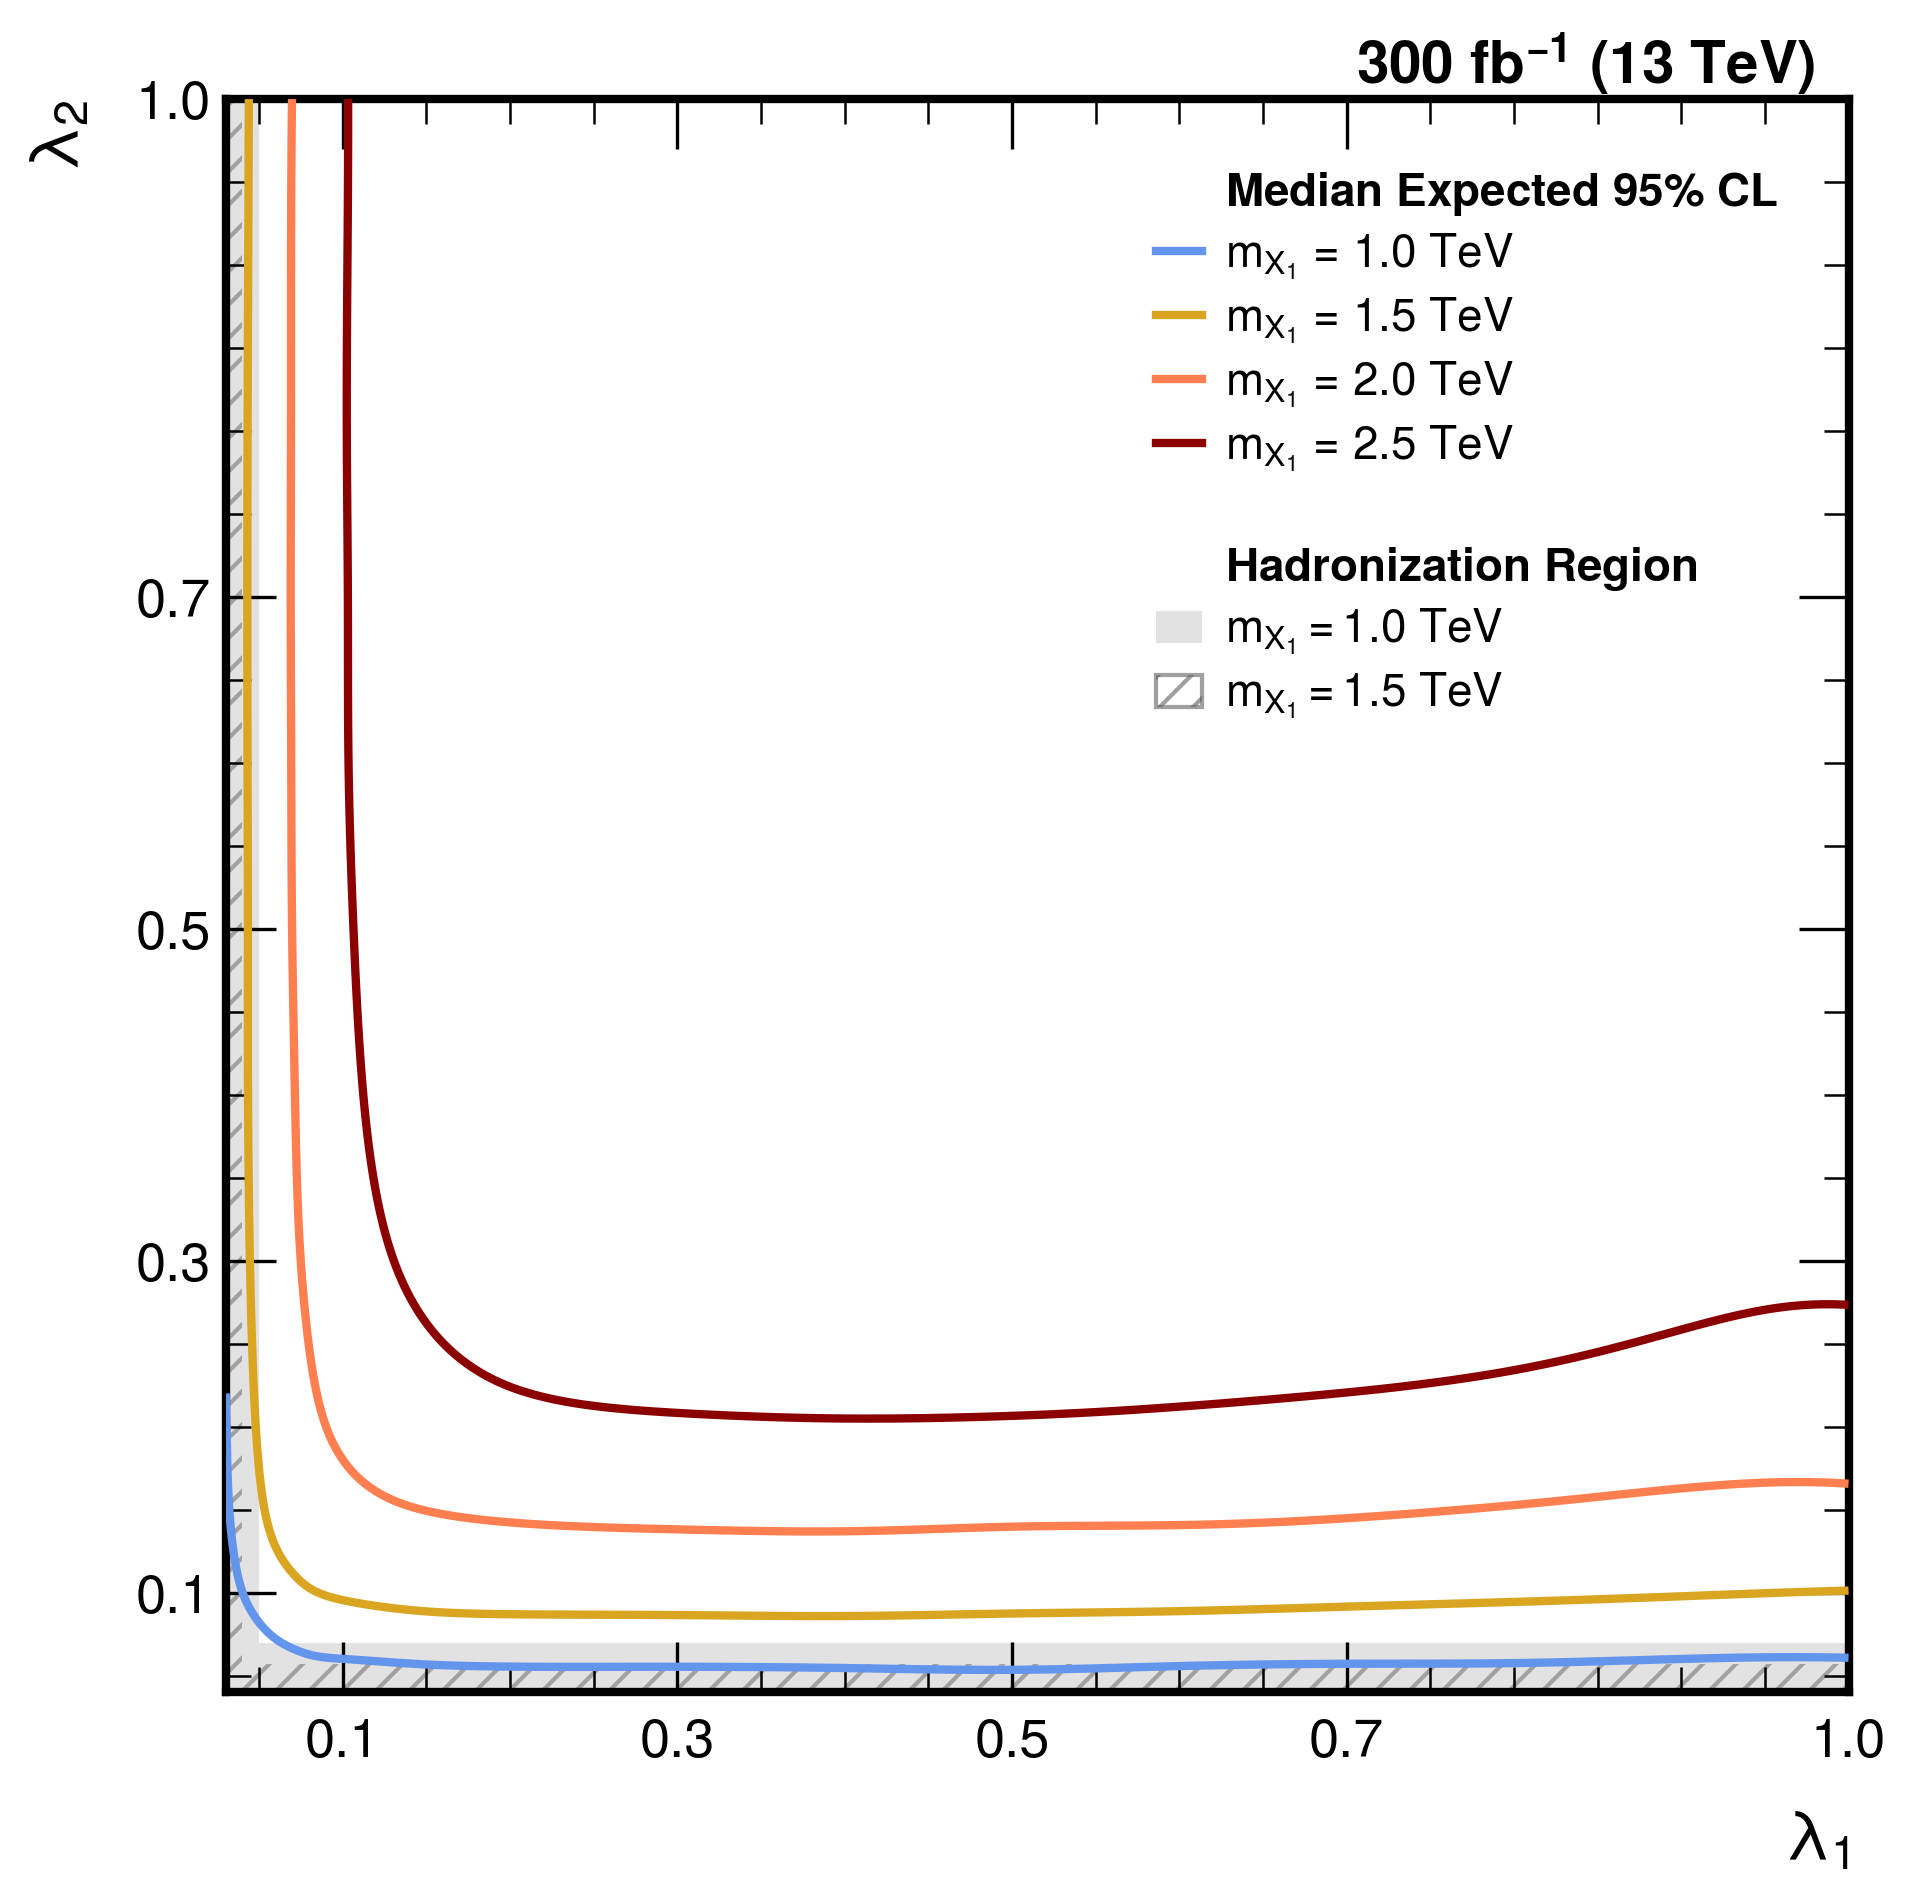
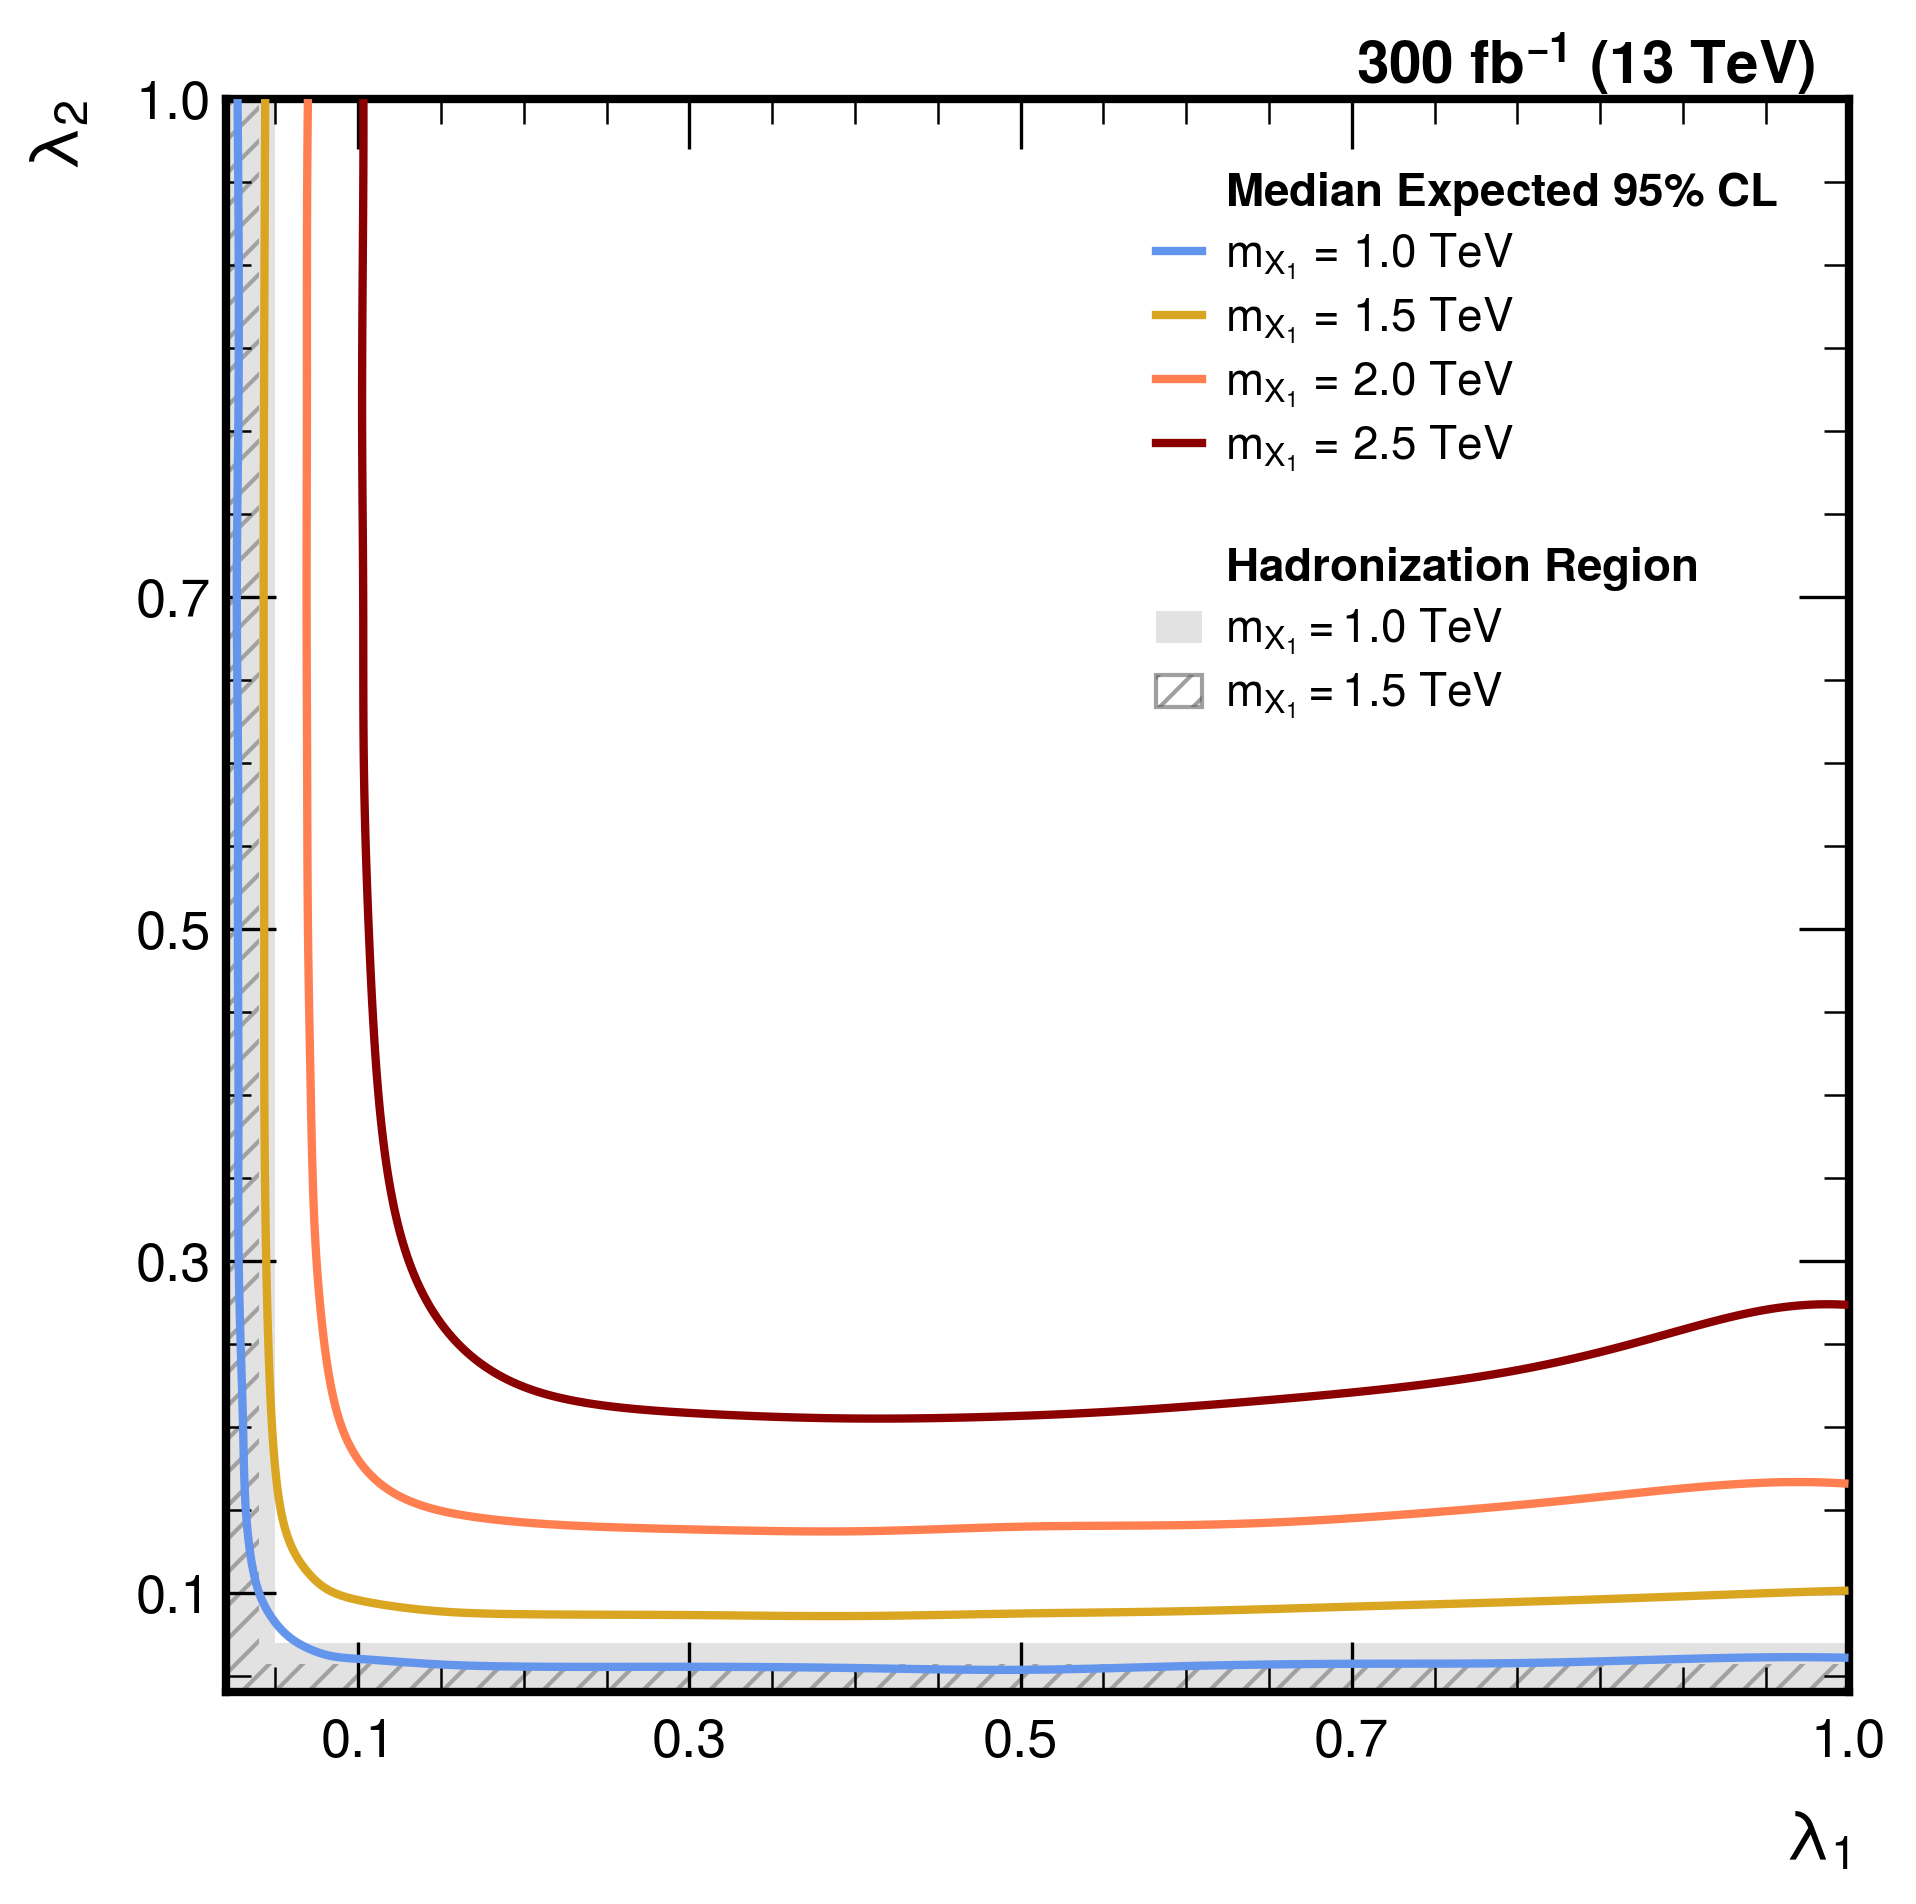
modi

diff --git a/src/CombineTool/result-fitbased/plot_contour_fitbased.py b/src/CombineTool/result-fitbased/plot_contour_fitbased.py
@@ -75,12 +75,12 @@ QUANTILE_BANDS = [
 ]
 
 # dense grid for contour drawing (λ1, λ2)
-L1_GRID = np.linspace(0.03, 1.0, 500)
-L2_GRID = np.linspace(0.04, 1.0, 500)
+L1_GRID = np.linspace(0.01, 1.0, 500) # 0.03
+L2_GRID = np.linspace(0.01, 1.0, 500) # 0.04
 
 # fine 1D scan for λ_crit
-LAM1_SCAN = np.linspace(0.03, 1.0, 4000)
-LAM2_SCAN = np.linspace(0.04, 1.0, 4000)
+LAM1_SCAN = np.linspace(0.01, 1.0, 4000)
+LAM2_SCAN = np.linspace(0.01, 1.0, 4000)
 LAM1_REF  = 0.50   # fixed when scanning λ2_crit
 LAM2_REF  = 0.50   # fixed when scanning λ1_crit
 
@@ -97,9 +97,13 @@ COLOR_MAP  = {
 
 X_TICKS   = [0.1, 0.3, 0.5, 0.7, 1.0]
 Y_TICKS   = [0.1, 0.3, 0.5, 0.7, 1.0]
-X_LIM_LOG = (0.03, 1.0)
+#X_LIM_LOG = (0.03, 1.0)
+X_LIM_LOG = (0.02, 1.0)
+#Y_LIM_LOG = (0.04, 1.0)
 Y_LIM_LOG = (0.04, 1.0)
-X_LIM_LIN = (0.03, 1.0)
+#X_LIM_LIN = (0.03, 1.0)
+X_LIM_LIN = (0.02, 1.0)
+#Y_LIM_LIN = (0.04, 1.0)
 Y_LIM_LIN = (0.04, 1.0)
 LUMI_POS  = (0.98, 1.01)    # axes-fraction coords for lumi text
 DPI       = 300

diff --git a/src/CombineTool/result-fitbased/xs_in_exclusion.md b/src/CombineTool/result-fitbased/xs_in_exclusion.md
@@ -1,0 +1,61 @@
+# Cross-section used in exclusion condition (`plot_contour_fitbased.py`)
+
+## Question
+
+A coupling point (λ₁, λ₂) is excluded at 95% CL when its theoretical signal yield exceeds N_exc:
+
+> Is the cross-section used here the **xs plane value** (analytic fitted surface), or the **xs point value** (raw discrete simulation points)?
+
+---
+
+## Answer: xs plane value (analytic fitted surface)
+
+The cross-section is evaluated from a continuous analytic surface, not the raw discrete simulation points.
+
+---
+
+## How it works
+
+### Step 1 — Fit A from discrete simulation points
+
+`fit_A_per_mx1()` reads `cross_section_SG.csv` (discrete MadGraph xs values at grid points)
+and fits a single parameter **A** per MX1 using the analytic formula:
+
+$$\sigma(\lambda_1, \lambda_2) = A \cdot \frac{\lambda_1^2 \,\lambda_2^2}{4\lambda_1^2 + \lambda_2^2}$$
+
+An iterative outlier-rejection loop removes points with >10% relative deviation before finalizing A.
+
+### Step 2 — Evaluate xs on a dense continuous grid
+
+`_xs_model((L1, L2), A)` evaluates the fitted formula at **any** (λ₁, λ₂), producing a smooth 2D surface (500×500 grid).
+
+### Step 3 — Compute signal yield
+
+```python
+xs_grid  = _xs_model((L1, L2), A)               # xs plane  [pb]
+eff_grid = np.clip(eff_sp(L1_GRID, L2_GRID).T, 0, 1)   # eff plane (RectBivariateSpline)
+N_sig    = xs_grid * lumi * 1000 * eff_grid      # event yield
+```
+
+The efficiency is also a continuous interpolated surface (`RectBivariateSpline` from `efficiency.csv`).
+
+### Step 4 — Draw exclusion contour
+
+The contour drawn on the (λ₁, λ₂) plane is the level set:
+
+$$N_{\rm sig}(\lambda_1, \lambda_2) = N_{\rm exc}$$
+
+i.e., the curve where the signal yield equals the median expected excluded yield from the CLs fit.
+
+---
+
+## Summary
+
+| Quantity | Source |
+|---|---|
+| xs | Analytic formula, A fitted from discrete sim points |
+| eff | `RectBivariateSpline` interpolated from `efficiency.csv` |
+| N_sig | `xs_plane × lumi × 1000 × eff_plane` |
+| Contour | `N_sig(λ₁, λ₂) = N_exc` level set on dense grid |
+
+The contour is fully continuous — the discrete simulation points are only used to determine the single fitting parameter A (per MX1).
